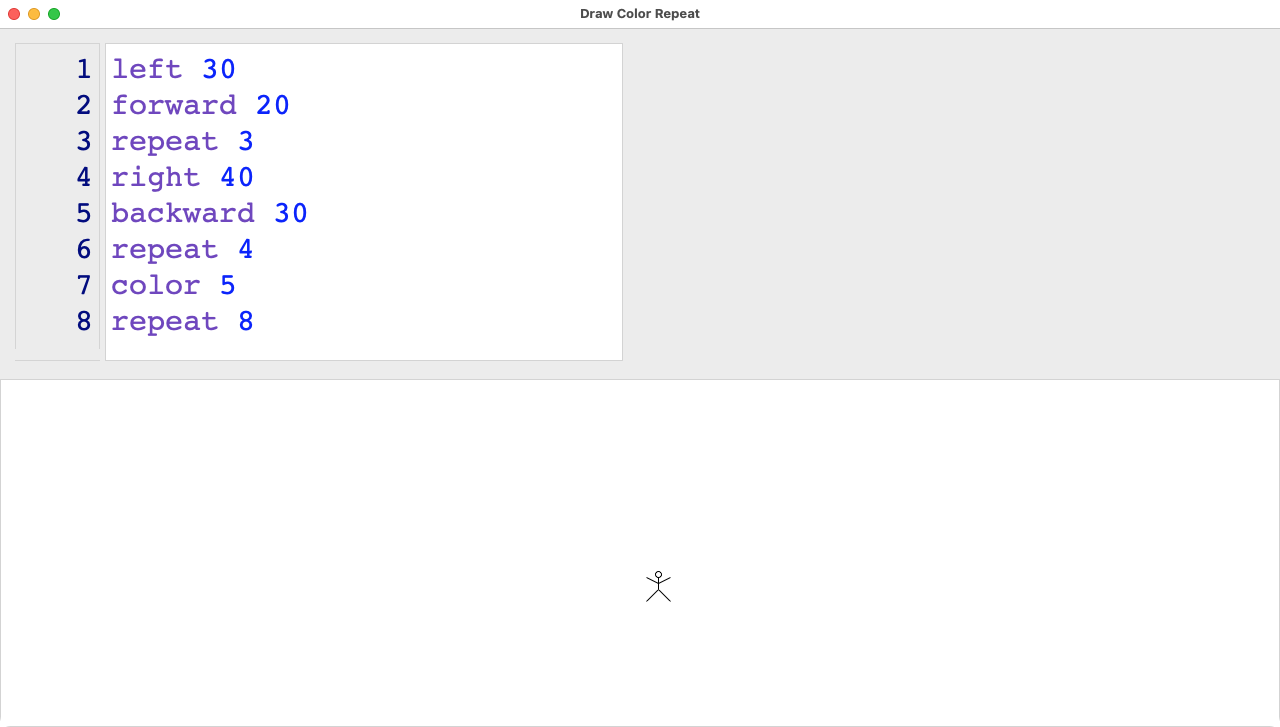
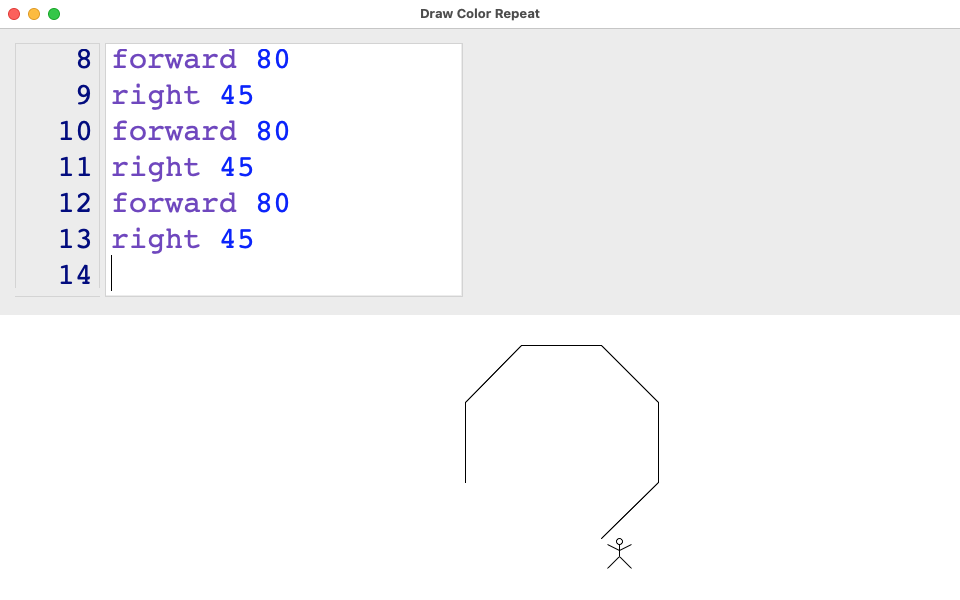
Drawing works! (f/b/r/l commands)

diff --git a/app/views/dcr/app_view.rb b/app/views/dcr/app_view.rb
@@ -24,26 +24,31 @@ class Dcr
     
     after_body {
       observe(self, 'program.polygons') { |new_polygons|
-#         @canvas.dispose
-#         @canvas_container.content {
-#           @canvas = canvas { |canvas_proxy|
-#             background :white
-#
-#             @stick_figure = stick_figure(
-#               x: canvas_proxy.bounds.width / 2,
-#               y: canvas_proxy.bounds.height / 2,
-#               width: 30,
-#               height: 30,
-#             )
-#           }
-#         }
-#         new_polygons.each { |new_polygon|
-#           @canvas.content {
-#             polygon(new_polygon.point_array) {
-#               background new_polygon.background
-#             }
-#           }
-#         }
+        @canvas.dispose
+        @canvas_container.content {
+          @canvas = canvas {
+            background :white
+            
+            # TODO show arrow pointing in the right direction (based on program.angle)
+            @stick_figure = stick_figure(
+              size: Program::STICK_FIGURE_SIZE,
+            ) {
+              location_x bind(self, 'program.location_x')
+              location_y bind(self, 'program.location_y')
+            }
+          }
+        }
+        new_polygons.each { |new_polygon|
+          @canvas.content {
+            polygon(new_polygon.point_array) {
+              if new_polygon.background.nil?
+                foreground :black
+              else
+                background new_polygon.background
+              end
+            }
+          }
+        }
       }
     }
 
@@ -78,8 +83,8 @@ class Dcr
             }
             @program_composite = composite
           }
-          @canvas_container = scrolled_composite {
-            @canvas = canvas { |canvas_proxy|
+          @canvas_container = scrolled_composite(:none) {
+            @canvas = canvas {
               background :white
               
               @stick_figure = stick_figure(

diff --git a/app/models/dcr/program.rb b/app/models/dcr/program.rb
@@ -13,13 +13,15 @@ class Dcr
     
     def initialize(text: '', board_width: 960, board_height: 284)
       @commands = []
-      @text = text
+      @polygons = []
       @board_width = board_width
       @board_height = board_height
+      @text = text
       reset!
     end
     
     def text=(value)
+      reset!
       @text = value
       parse_commands
     end
@@ -32,11 +34,13 @@ class Dcr
     end
     
     def reset!
+      self.angle = 0
       reset_location!
       reset_angle!
     end
     
     def reset_location!
+      # also set stick_figure_location_x and stick_figure_location_y, which is slightly different
       self.location_x = (board_width - STICK_FIGURE_SIZE) / 2.0
       self.location_y = (board_height - STICK_FIGURE_SIZE) / 2.0
     end
@@ -55,6 +59,7 @@ class Dcr
     end
     
     def calculate_polygons
+      self.polygons = []
       commands.each(&:call)
     end
   end

diff --git a/app/models/dcr/command/forward.rb b/app/models/dcr/command/forward.rb
@@ -1,10 +1,24 @@
+require_relative '../polygon'
+
 class Dcr
   class Command
     class Forward < Command
       def call
-        # TODO
-        @program
-        @text
+        p1 = java.awt.geom.Point2D::Double.new(value, 0)
+        p2 = java.awt.geom.Point2D::Double.new(0, 0)
+        t = java.awt.geom.AffineTransform.new
+        t.set_to_rotation(@program.angle*(Math::PI/2.0)/90.0 - Math::PI/2.0)
+        t.transform(p1, p2)
+        @program.polygons << Polygon.new(
+          @program.location_x, @program.location_y,
+          @program.location_x + p2.x, @program.location_y + p2.y
+        )
+        @program.location_x = @program.location_x + p2.x
+        @program.location_y = @program.location_y + p2.y
+      end
+      
+      def value
+        @value.to_f == 0 ? 1 : @value.to_f
       end
     end
   end

diff --git a/app/models/dcr/command/backward.rb b/app/models/dcr/command/backward.rb
@@ -1,6 +1,23 @@
 class Dcr
   class Command
     class Backward < Command
+      def call
+        p1 = java.awt.geom.Point2D::Double.new(value, 0)
+        p2 = java.awt.geom.Point2D::Double.new(0, 0)
+        t = java.awt.geom.AffineTransform.new
+        t.set_to_rotation(@program.angle*(Math::PI/2.0)/90.0 - Math::PI/2.0)
+        t.transform(p1, p2)
+        @program.polygons << Polygon.new(
+          @program.location_x, @program.location_y,
+          @program.location_x - p2.x, @program.location_y - p2.y
+        )
+        @program.location_x = @program.location_x - p2.x
+        @program.location_y = @program.location_y - p2.y
+      end
+      
+      def value
+        @value.to_f == 0 ? 1 : @value.to_f
+      end
     end
   end
 end

diff --git a/app/models/dcr/command.rb b/app/models/dcr/command.rb
@@ -6,7 +6,7 @@ class Dcr
     
     class << self
       def create(program: , text: )
-        operation, _ = text.split.map(&:strip)
+        operation, _ = text.split.map(&:strip) # TODO use regex instead to tolerate text stuck next to number
         operation_strategy = strategies.detect { |strategy| strategy.match?(operation) }
         operation_strategy&.new(program: program, text: text)
       end

diff --git a/app/models/dcr/polygon.rb b/app/models/dcr/polygon.rb
@@ -1,0 +1,10 @@
+class Dcr
+  class Polygon
+    attr_accessor :point_array, :background
+    
+    def initialize(*point_array)
+      point_array = point_array.first if point_array.size == 1 && point_array.first.is_a?(Array)
+      @point_array = point_array
+    end
+  end
+end

diff --git a/app/models/dcr/command/left.rb b/app/models/dcr/command/left.rb
@@ -2,6 +2,14 @@ class Dcr
   class Command
     class Left < Command
       command_exclusion 'f'
+      
+      def call
+        @program.angle -= value
+      end
+      
+      def value
+        @value.to_f == 0 ? 90 : @value.to_f
+      end
     end
   end
 end

diff --git a/app/models/dcr/command/right.rb b/app/models/dcr/command/right.rb
@@ -1,6 +1,13 @@
 class Dcr
   class Command
     class Right < Command
+      def call
+        @program.angle += value
+      end
+      
+      def value
+        @value.to_f == 0 ? 90 : @value.to_f
+      end
     end
   end
 end

diff --git a/app/dcr.rb b/app/dcr.rb
@@ -2,6 +2,8 @@ $LOAD_PATH.unshift(File.expand_path('..', __FILE__))
 
 require 'bundler/setup'
 Bundler.require(:default)
+
+require 'puts_debuggerer'
 require 'views/dcr/app_view'
 
 class Dcr

diff --git a/README.md b/README.md
@@ -2,7 +2,7 @@
 
 A young boy programming language for drawing and coloring with repetition.
 
-DCR is a minimum subset of [Logo](https://el.media.mit.edu/logo-foundation/what_is_logo/logo_primer.html) that is intentionally simplified to teach computer programming to all 1-3 grade young boys in school (not just the ones who already gravitate towards math and computers). It uses a stick figure to draw instead of [Logo](https://el.media.mit.edu/logo-foundation/what_is_logo/logo_primer.html)'s turtle.
+DCR is a minimal subset of [Logo](https://el.media.mit.edu/logo-foundation/what_is_logo/logo_primer.html) that is intentionally simplified to teach computer programming to all 1-3 grade young boys in school (not just the ones who already gravitate towards math and computers). It uses a stick figure to draw instead of [Logo](https://el.media.mit.edu/logo-foundation/what_is_logo/logo_primer.html)'s turtle.
 
 ![Draw Color Repeat Screenshot](/images/dcr-screenshot.png)
 

diff --git a/TODO.md b/TODO.md
@@ -1,6 +1,12 @@
 # TODO
 
-- Extract stick_figure into its own gem
+- Add `#eql?` and `#hash` to `Dcr::Polygon`
+- Make drawing happen through the left hand of the stick figure (end of left arm)
+- Process commands as case-insensitive
+- Tolerate errors in typing colors
+- Support concatenation of number to text (as tolerating error) (e.g. f3, backward9, right80)
+- show arrow pointing in the right direction (based on program.angle)
+- Consider dropping a stick figure after every forward/backward command
 - draw from between the legs of the stick figure
 - GUI appends command entries with a drop down for operation and a spinner/drop down for value (which could be moved up and down with drag&drop or arrows and could be deleted)
 - generate GUI components in alignment with programming commands
